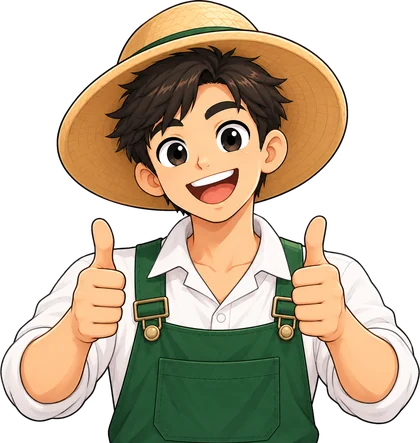
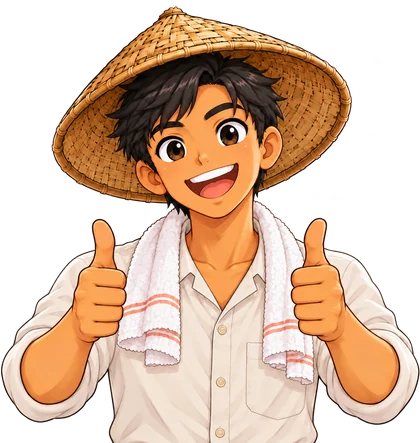
Website: the current thumbs-up farmer above the footer; image addresses versioned so browsers fetch the new pictures

diff --git a/site/index.html b/site/index.html
@@ -16,7 +16,7 @@
 <link rel="preconnect" href="https://fonts.googleapis.com">
 <link rel="preconnect" href="https://fonts.gstatic.com" crossorigin>
 <link href="https://fonts.googleapis.com/css2?family=Lexend:wght@400;500;600;700&family=Source+Sans+3:wght@400;600;700&display=swap" rel="stylesheet">
-<link rel="preload" as="image" href="assets/screens/farmer-prices.webp" fetchpriority="high">
+<link rel="preload" as="image" href="assets/screens/farmer-prices.webp?v=20261012" fetchpriority="high">
 <script>document.documentElement.classList.add("js");</script>
 <style>
 /* ─── AniSense: the website ──────────────────────────────────────────────────
@@ -630,21 +630,21 @@ main, .hdr-row { transition: opacity 140ms ease, filter 140ms ease; }
     <div class="lineup">
       <div class="phone ph-main" style="--i:0">
         <div class="phone-screen">
-          <img data-shot="farmer-prices" src="assets/screens/farmer-prices.webp" width="390" height="844" decoding="async" fetchpriority="high"
+          <img data-shot="farmer-prices" src="assets/screens/farmer-prices.webp?v=20261012" width="390" height="844" decoding="async" fetchpriority="high"
             alt="The Prices screen: September 2026 retail prices in Nueva Ecija, with 15 of 23 prices up from the month before." data-i18n-alt="alt_prices">
           <div class="island" aria-hidden="true"></div>
         </div>
       </div>
       <div class="phone ph-side l" style="--i:1">
         <div class="phone-screen">
-          <img data-shot="farmer-forecast" src="assets/screens/farmer-forecast.webp" width="390" height="844" decoding="async"
+          <img data-shot="farmer-forecast" src="assets/screens/farmer-forecast.webp?v=20261012" width="390" height="844" decoding="async"
             alt="The price forecast for Special Rice: ₱57.20 in September to ₱56.66 in December, expected to fall, tested at about 3% off." data-i18n-alt="alt_forecast">
           <div class="island" aria-hidden="true"></div>
         </div>
       </div>
       <div class="phone ph-side r" style="--i:1">
         <div class="phone-screen">
-          <img data-shot="buyer-market" src="assets/screens/buyer-market.webp" width="390" height="844" decoding="async"
+          <img data-shot="buyer-market" src="assets/screens/buyer-market.webp?v=20261012" width="390" height="844" decoding="async"
             alt="Listings in the Market." data-i18n-alt="alt_market_2">
           <div class="island" aria-hidden="true"></div>
         </div>
@@ -680,14 +680,14 @@ main, .hdr-row { transition: opacity 140ms ease, filter 140ms ease; }
       <div class="duo reveal" style="--i:2">
         <div class="phone back">
           <div class="phone-screen">
-            <img data-shot="farmer-price-sheet" src="assets/screens/farmer-price-sheet.webp" width="390" height="844" loading="lazy" decoding="async"
+            <img data-shot="farmer-price-sheet" src="assets/screens/farmer-price-sheet.webp?v=20261012" width="390" height="844" loading="lazy" decoding="async"
               alt="Special Rice at ₱57.20 a kilo, with a chart of 2026 prices and the forecast to December." data-i18n-alt="alt_sheet">
             <div class="island" aria-hidden="true"></div>
           </div>
         </div>
         <div class="phone front">
           <div class="phone-screen">
-            <img data-shot="farmer-prices" src="assets/screens/farmer-prices.webp" width="390" height="844" loading="lazy" decoding="async"
+            <img data-shot="farmer-prices" src="assets/screens/farmer-prices.webp?v=20261012" width="390" height="844" loading="lazy" decoding="async"
               alt="The Prices screen: how many prices went up, held or went down this month, then every crop's price." data-i18n-alt="alt_prices_2">
             <div class="island" aria-hidden="true"></div>
           </div>
@@ -716,7 +716,7 @@ main, .hdr-row { transition: opacity 140ms ease, filter 140ms ease; }
       <div class="fc-visual reveal" style="--i:2">
         <div class="phone">
           <div class="phone-screen">
-            <img data-shot="farmer-forecast" src="assets/screens/farmer-forecast.webp" width="390" height="844" loading="lazy" decoding="async"
+            <img data-shot="farmer-forecast" src="assets/screens/farmer-forecast.webp?v=20261012" width="390" height="844" loading="lazy" decoding="async"
               alt="The price forecast for Special Rice: ₱57.20 in September to ₱56.66 in December, expected to fall, tested at about 3% off." data-i18n-alt="alt_forecast">
             <div class="island" aria-hidden="true"></div>
           </div>
@@ -754,14 +754,14 @@ main, .hdr-row { transition: opacity 140ms ease, filter 140ms ease; }
       <div class="duo reveal" style="--i:2">
         <div class="phone back">
           <div class="phone-screen">
-            <img data-shot="buyer-market" src="assets/screens/buyer-market.webp" width="390" height="844" loading="lazy" decoding="async"
+            <img data-shot="buyer-market" src="assets/screens/buyer-market.webp?v=20261012" width="390" height="844" loading="lazy" decoding="async"
               alt="The Market: listings with photos, the price per kilo, the kilos left and the farmer's town." data-i18n-alt="alt_market">
             <div class="island" aria-hidden="true"></div>
           </div>
         </div>
         <div class="phone front">
           <div class="phone-screen">
-            <img data-shot="buyer-home" src="assets/screens/buyer-home.webp" width="390" height="844" loading="lazy" decoding="async"
+            <img data-shot="buyer-home" src="assets/screens/buyer-home.webp?v=20261012" width="390" height="844" loading="lazy" decoding="async"
               alt="A buyer's Home: search, fresh local produce, and crops, fruits and vegetables to browse." data-i18n-alt="alt_buyer">
             <div class="island" aria-hidden="true"></div>
           </div>
@@ -785,7 +785,7 @@ main, .hdr-row { transition: opacity 140ms ease, filter 140ms ease; }
         </ul>
       </div>
       <div class="card-shot reveal" style="--i:2">
-        <img data-shot="profit-card" src="assets/screens/profit-card.webp" width="716" height="1334" loading="lazy" decoding="async"
+        <img data-shot="profit-card" src="assets/screens/profit-card.webp?v=20261012" width="716" height="1334" loading="lazy" decoding="async"
           alt="The Your profit card: estimated and final profit, and ₱13,000 spent on rice." data-i18n-alt="alt_profit">
         <div class="chip">
           <span class="chip-ico" aria-hidden="true"><svg width="20" height="20" viewBox="0 0 24 24" fill="none" stroke="currentColor" stroke-width="2.4" stroke-linecap="round" stroke-linejoin="round"><path d="M20 6 9 17l-5-5"/></svg></span>
@@ -876,11 +876,11 @@ main, .hdr-row { transition: opacity 140ms ease, filter 140ms ease; }
       <div class="how-visual reveal" style="--i:2">
         <div class="phone" id="hf-panel" role="tabpanel" aria-labelledby="hf-t0">
           <div class="phone-screen">
-            <img class="how-shot on" data-shot="role-farmer" data-top="dark" src="assets/screens/role-farmer.webp" width="390" height="844" loading="lazy" decoding="async"
+            <img class="how-shot on" data-shot="role-farmer" data-top="dark" src="assets/screens/role-farmer.webp?v=20261012" width="390" height="844" loading="lazy" decoding="async"
               alt="Who are you? with Farmer chosen: post listings, track expenses, and monitor crop market prices." data-i18n-alt="alt_role_farmer">
-            <img class="how-shot" data-shot="farmer-price-sheet" src="assets/screens/farmer-price-sheet.webp" width="390" height="844" loading="lazy" decoding="async" aria-hidden="true"
+            <img class="how-shot" data-shot="farmer-price-sheet" src="assets/screens/farmer-price-sheet.webp?v=20261012" width="390" height="844" loading="lazy" decoding="async" aria-hidden="true"
               alt="A crop's price, its change from the month before, and its chart." data-i18n-alt="alt_sheet_2">
-            <img class="how-shot" data-shot="farmer-post" src="assets/screens/farmer-post.webp" width="390" height="844" loading="lazy" decoding="async" aria-hidden="true"
+            <img class="how-shot" data-shot="farmer-post" src="assets/screens/farmer-post.webp?v=20261012" width="390" height="844" loading="lazy" decoding="async" aria-hidden="true"
               alt="Post your crops, filled in: ₱58 a kilo beside today's market price of ₱57.20, 200 kilos, a photo of the rice, and ₱11,600 in all at the foot." data-i18n-alt="alt_post">
             <div class="island" aria-hidden="true"></div>
           </div>
@@ -921,11 +921,11 @@ main, .hdr-row { transition: opacity 140ms ease, filter 140ms ease; }
       <div class="how-visual reveal" style="--i:2">
         <div class="phone" id="hb-panel" role="tabpanel" aria-labelledby="hb-t0">
           <div class="phone-screen">
-            <img class="how-shot on" data-shot="role-buyer" data-top="dark" src="assets/screens/role-buyer.webp" width="390" height="844" loading="lazy" decoding="async"
+            <img class="how-shot on" data-shot="role-buyer" data-top="dark" src="assets/screens/role-buyer.webp?v=20261012" width="390" height="844" loading="lazy" decoding="async"
               alt="Who are you? with Buyer chosen: browse listings, compare prices, and connect with local farmers." data-i18n-alt="alt_role_buyer">
-            <img class="how-shot" data-shot="buyer-market" src="assets/screens/buyer-market.webp" width="390" height="844" loading="lazy" decoding="async" aria-hidden="true"
+            <img class="how-shot" data-shot="buyer-market" src="assets/screens/buyer-market.webp?v=20261012" width="390" height="844" loading="lazy" decoding="async" aria-hidden="true"
               alt="Listings in the Market." data-i18n-alt="alt_market_2">
-            <img class="how-shot" data-shot="buyer-cart" src="assets/screens/buyer-cart.webp" width="390" height="844" loading="lazy" decoding="async" aria-hidden="true"
+            <img class="how-shot" data-shot="buyer-cart" src="assets/screens/buyer-cart.webp?v=20261012" width="390" height="844" loading="lazy" decoding="async" aria-hidden="true"
               alt="My Cart: Regular Milled rice and Ampalaya from two farmers, ₱102 in all, and Confirm Order." data-i18n-alt="alt_cart">
             <div class="island" aria-hidden="true"></div>
           </div>
@@ -957,7 +957,7 @@ main, .hdr-row { transition: opacity 140ms ease, filter 140ms ease; }
         </div>
         <p class="cta-note reveal" style="--i:4"><span data-i18n="dl_ask">Questions? Write to</span> <a class="mail js-mail" href="mailto:AniSense2026@gmail.com">AniSense2026@gmail.com</a></p>
       </div>
-      <img class="mascot reveal" style="--i:2" src="assets/mascot-thumbs.webp" width="420" height="443" loading="lazy" decoding="async" alt="">
+      <img class="mascot reveal" style="--i:2" src="assets/mascot-thumbs.webp?v=20261012" width="420" height="443" loading="lazy" decoding="async" alt="">
     </div>
   </section>
 </main>
@@ -1176,10 +1176,14 @@ main, .hdr-row { transition: opacity 140ms ease, filter 140ms ease; }
     langSwitch.querySelectorAll("button").forEach(b => b.setAttribute("aria-pressed", String(b.dataset.setLang === lang)));
   }
   // The screenshots in the same language: each one soft-fades out, swaps,
-  // and comes back once the new picture has loaded.
+  // and comes back once the new picture has loaded. SHOTS_V is the version
+  // on their addresses (as in the page above): change it whenever the
+  // screenshots are taken again, or browsers keep showing the old ones for
+  // the week vercel.json lets them keep /assets/.
+  const SHOTS_V = "?v=20261012";
   function swapShots(lang) {
     document.querySelectorAll("img[data-shot]").forEach(img => {
-      const next = `assets/screens/${img.dataset.shot}${lang === "tl" ? "-tl" : ""}.webp`;
+      const next = `assets/screens/${img.dataset.shot}${lang === "tl" ? "-tl" : ""}.webp${SHOTS_V}`;
       if (img.getAttribute("src") === next) return;
       if (reduce || !img.complete || img.getBoundingClientRect().bottom < 0 || img.getBoundingClientRect().top > innerHeight) { img.src = next; return; }
       img.classList.add("swapping");

diff --git a/design/artwork/README.md b/design/artwork/README.md
@@ -16,7 +16,7 @@ a second of loading for a picture that renders 380 pixels wide.
 | `BuyerPhone.png` (the faint coloured haze left by its background removal cleared; cropped head to waist, 456 × 520) | `src/assets/buyer-mascot.webp` (+ `buyer-mascot-eyes.webp`, `buyer-mascot-mouth.webp`: closed lids and a closed smile, drawn on the same canvas by a script) | Creating an account as a buyer: the role step and every sign-up question. She blinks, and says each line |
 | `BuyerHi.png` (haze cleared; cropped head to waist, 420 × 435, the farmer's hello frame) | `src/assets/buyer-wave-body.webp` (the hand cut away above the wrist; her sleeve carried on where the palm covered it) + `-hand` (rotates from the wrist crease, `transform-origin: 14.37% 55.91%` on `.tour-mascot.buyer .tm-hand` and `.gd-mascot.buyer .tm-hand`) + `-eyes` (her open eye closed; the other is drawn winking) + `-mouth` (a small open mouth: she is drawn with a closed smile, so saying hi opens it) | Opening card of the buyer's walkthrough (she waves, blinks and says hi), and the Guide in a buyer's account (waves, then blinks) |
 | `FarmerHi.png` (already transparent; cropped to the figure's width from the top of the hat, 420 × 435) | `src/assets/mascot-wave-body.webp` (the hand cut away above the wrist) + `-hand` (the hand alone; it rotates from the wrist crease, `transform-origin: 14.47% 61.55%` on `.tm-hand`) + `-eyes` (closed lids) + `-mouth` (closed smile), all drawn on the same canvas by a script | Opening card of the walkthrough, and the Guide: the hand waves, the eyes blink, the smile closes to say hello |
-| `FarmerThumbsUp.png` (already transparent; cropped to the figure's width, 420 × 443) | `src/assets/mascot-thumbs.webp` + `mascot-thumbs-eyes.webp` (closed lids, drawn on the same canvas by a script that fills the eyes with the face's own skin tones) | Last card of the walkthrough, and the achievement pop-up; `-eyes` switches on to blink |
+| `FarmerThumbsUp.png` (already transparent; cropped to the figure's width, 420 × 443) | `src/assets/mascot-thumbs.webp` + `mascot-thumbs-eyes.webp` (closed lids, drawn on the same canvas by a script that fills the eyes with the face's own skin tones) | Last card of the walkthrough, and the achievement pop-up; `-eyes` switches on to blink. The website's download section uses a copy, `site/assets/mascot-thumbs.webp`: replace both, and change `?v=` on its address in `site/index.html` so browsers fetch the new one |
 | `WhatDoYouGrow/` — ten crops, 1254 × 1254, transparent (`Rice`, `Corn`, `Onion`, `Tomato`, `Calamansi`, `Mango`, `Garlic`, `Squash`, `BitterMelon`, `Watermelon`) | `src/assets/grow/<crop>.webp`, 192 × 192 each (the whole square kept, so every crop shows at the same size; faint haze from background removal cleared). `BitterMelon` is `ampalaya.webp`. Wired up in `src/data/growArt.ts` | Creating an account as a farmer: the "What do you grow?" tiles, in place of the emoji |
 
 ## Adding or replacing one
